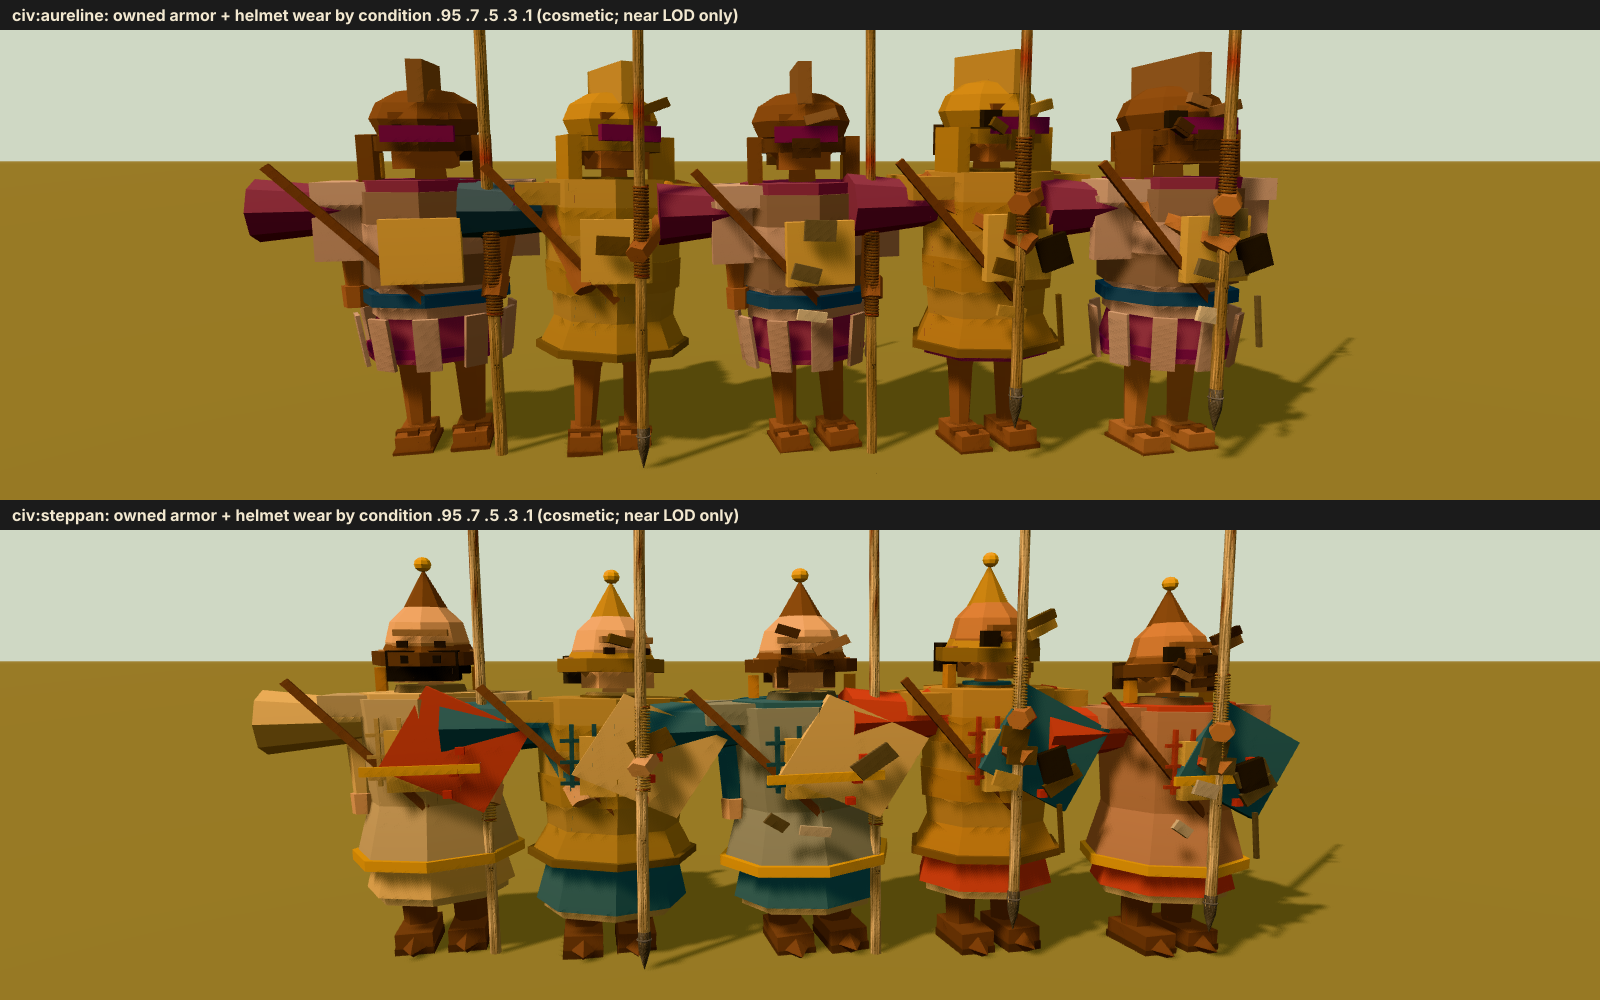
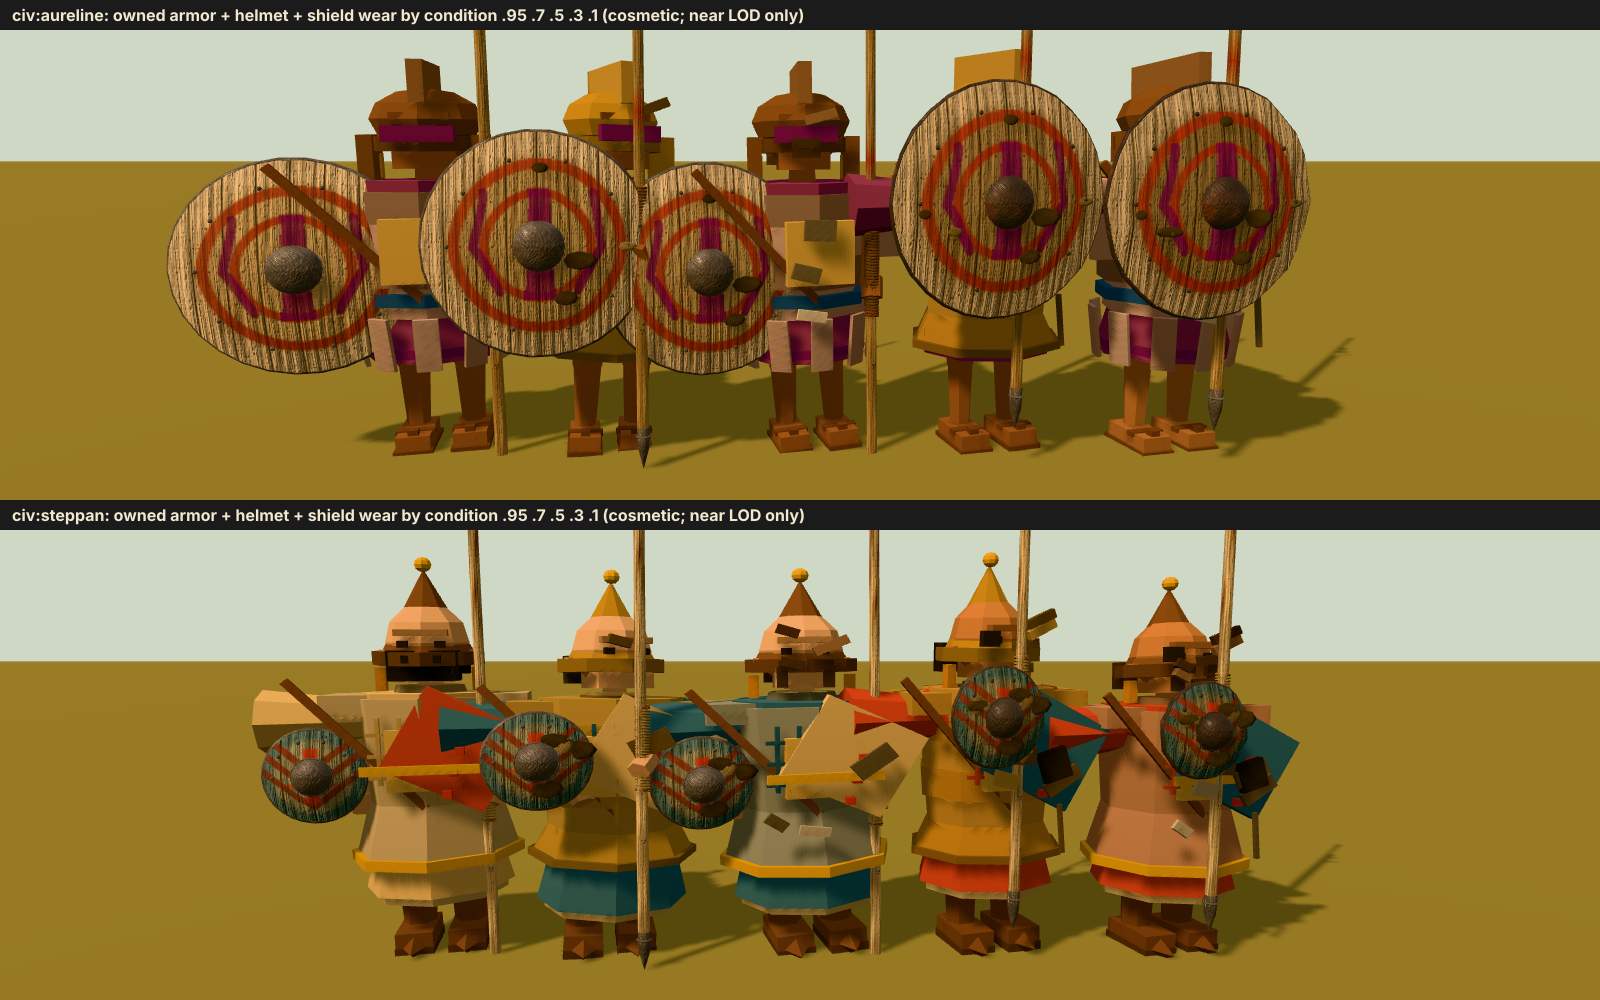
Lane C: shield wear from real condition (scuffs, rubbed face, chipped gap; near/mid LOD, bounded, own cache key)
Claude-Session: https://claude.ai/code/session_01Y7uzF3C4euQAGtzfSWWNBZ

diff --git a/src/scene/characterRig.ts b/src/scene/characterRig.ts
@@ -116,7 +116,7 @@ export function rigMeshData(parts:readonly RigPart[],pivot:readonly number[],col
 export type RigInput={type:UnitKind;bodyClass:BodyClass;seed:number;gear:RigGear;culture:Culture;season:Season;era?:number;/** people v2: the society's PeopleLook, this person's Individual and role. Absent = the first rig's culture-colour look (kept as ?people=rig1). */look?:PeopleLook;individual?:Individual;role?:Role;unitId?:number;/** TEAM_STYLE[team].unit: the readable team marker on bare bodies */teamColor:string;/** armorAffiliationColor(g,team) for the armor stitching */affiliation?:string};
 export type RigOutfit={key:string;bones:Record<RigBone,RigPart[]>;colors:Record<RigSlot,string>;itemR?:ItemId;itemL?:ItemId;bodyClass:BodyClass;
  /** people v2 only */look?:PeopleLook;role?:Role;ind?:Individual;frame?:{height:number;build:number;dirt:number};
- rendered:{garment?:GarmentId;cut?:Dress['cut'];headwear?:Dress['headwear'];insignia?:UnitKind;armor?:'paddedTorso';helmet?:string;shield?:string;weapon?:'spear'|'bow'|'blade';standard?:boolean};ignored:string[];fit:BodyClass};
+ rendered:{garment?:GarmentId;cut?:Dress['cut'];headwear?:Dress['headwear'];insignia?:UnitKind;armor?:'paddedTorso';helmet?:string;shield?:string;shieldCondition?:number;weapon?:'spear'|'bow'|'blade';standard?:boolean};ignored:string[];fit:BodyClass};
 const SKINS=['#d8a577','#c48a5c','#a8704a','#8a5a3c'];
 const rel=(p:Part)=>p;
 const R=(slot:RigSlot,shape:Part['shape'],size:[number,number,number],pos:[number,number,number],lod:LodTier,rot?:[number,number,number],sides?:number,onlyFrom?:LodTier):RigPart=>({...part(shape,'cloth',size,pos,lod,rot,sides),slot,...(onlyFrom!==undefined?{onlyFrom}:{})});
@@ -189,7 +189,7 @@ const L=(slot:RigSlot,a:[number,number,number],b:[number,number,number],t:number
  const dx=b[0]-a[0],dy=b[1]-a[1],dz=b[2]-a[2],len=Math.hypot(dx,dy,dz),pitch=Math.atan2(Math.hypot(dx,dz),dy),yaw=Math.atan2(dx,dz);
  return {...part('box','cloth',[t,len,t],a,lod,[pitch,yaw,0]),slot};
 };
-export function itemParts(item:ItemId,culture?:Culture,look?:PeopleLook,opts?:{shield?:ShieldKind}):RigPart[]{
+export function itemParts(item:ItemId,culture?:Culture,look?:PeopleLook,opts?:{shield?:ShieldKind;shieldCondition?:number}):RigPart[]{
  switch(item){
   case 'hammer':return hammerParts('#7a756d');
   case 'staff':return staffParts(look??({id:'x'} as PeopleLook),{accent:culture?.palette.accent??'#c9a23c',trim:culture?.palette.trim??'#c9a23c',metal:'#b08a3a'});
@@ -201,7 +201,7 @@ export function itemParts(item:ItemId,culture?:Culture,look?:PeopleLook,opts?:{s
   case 'hoe':return [R('wood','cylinder',[.04,.95,.035],[0,-.25,0],2,undefined,5),R('wood','box',[.04,.2,.14],[0,.62,.05],2,[-.5,0,0])];
   case 'rod':return [L('wood',[0,-.25,0],[0,1.1,.28],.03,2),L('trim',[0,1.1,.28],[0,.55,.62],.012,0)];
   case 'bow':return [L('wood',[0,-.55,-.02],[0,-.27,.09],.04,1),L('wood',[0,-.27,.09],[0,0,.11],.04,1),L('wood',[0,0,.11],[0,.27,.09],.04,1),L('wood',[0,.27,.09],[0,.55,-.02],.04,1),L('trim',[0,-.55,-.02],[0,.55,-.02],.012,0),R('wood','box',[.045,.14,.045],[0,-.07,.09],2)];
-  case 'shield':{if(look&&culture)return shieldParts(look.shield,{fields:culture.flag.fields,chargeColor:culture.flag.chargeColor,division:culture.flag.division},opts?.shield??'woodShield');const f=(culture?.flag.fields[0]??'#c0a060') as string;void f;return [R('flag','cylinder',[.5,.05,.5],[-.12,.1,.1],2,[Math.PI/2,0,0],9),R('metal','sphere',[.12,.12,.08],[-.12,.0,.14],1,[Math.PI/2,0,0]),R('trim','cylinder',[.52,.02,.52],[-.12,.1,.095],1,[Math.PI/2,0,0],9)];}
+  case 'shield':{if(look&&culture)return shieldParts(look.shield,{fields:culture.flag.fields,chargeColor:culture.flag.chargeColor,division:culture.flag.division},opts?.shield??'woodShield',undefined,opts?.shieldCondition);const f=(culture?.flag.fields[0]??'#c0a060') as string;void f;return [R('flag','cylinder',[.5,.05,.5],[-.12,.1,.1],2,[Math.PI/2,0,0],9),R('metal','sphere',[.12,.12,.08],[-.12,.0,.14],1,[Math.PI/2,0,0]),R('trim','cylinder',[.52,.02,.52],[-.12,.1,.095],1,[Math.PI/2,0,0],9)];}
   case 'standard':return [R('wood','cylinder',[.04,2.5,.04],[0,-.7,0],2,undefined,5),R('metal','sphere',[.1,.1,.1],[0,1.8,0],2),R('flag','box',[.62,.5,.03],[.31,1.26,0],2),R('flag2','box',[.62,.1,.034],[.31,1.62,0],2),R('flag2','box',[.62,.07,.034],[.31,1.3,0],2),R('charge','box',[.18,.18,.036],[.31,1.38,0],2,[0,0,Math.PI/4]),R('flag','box',[.2,.3,.03],[.72,1.34,0],1),R('flag2','box',[.2,.3,.03],[.92,1.38,0],0)];
  }
 }
@@ -212,7 +212,7 @@ export const TOOL_FOR_CLIP:Partial<Record<string,ItemId>>={chop:'axe',quarry:'pi
 /** One merged static silhouette for far tier: every bone at rest, plus item parts in their stance. */
 export function farParts(o:RigOutfit,culture?:Culture):RigPart[]{
  const out:RigPart[]=[];for(const b of RIG_BONES)out.push(...o.bones[b]);
- const place=(item:ItemId|undefined,at:readonly number[],tilt=0)=>{if(!item)return;for(const p of itemParts(item,culture,o.look,{shield:o.rendered.shield as ShieldKind|undefined}))out.push({...p,pos:[p.pos[0]+at[0],p.pos[1]*Math.cos(tilt)+at[1],p.pos[2]+at[2]+p.pos[1]*Math.sin(tilt)]});};
+ const place=(item:ItemId|undefined,at:readonly number[],tilt=0)=>{if(!item)return;for(const p of itemParts(item,culture,o.look,{shield:o.rendered.shield as ShieldKind|undefined,shieldCondition:o.rendered.shieldCondition}))out.push({...p,pos:[p.pos[0]+at[0],p.pos[1]*Math.cos(tilt)+at[1],p.pos[2]+at[2]+p.pos[1]*Math.sin(tilt)]});};
  place(o.itemR,[.21,.6,.1],0);place(o.itemL,[-.22,.64,.08],0);return out;
 }
 /** `near/mid/far` are the ceiling over every kit (leader, helmet, shield, armor, richest trim); `typical` is what an ordinary garment-and-weapon person must fit. */
@@ -221,7 +221,7 @@ const tri=(parts:readonly RigPart[],tier:LodTier)=>parts.filter(p=>p.lod>=tier&&
 /** Triangles one person costs at a tier, items included (far uses the merged silhouette). */
 export function rigTriangles(o:RigOutfit,tier:LodTier,culture?:Culture):number{
  if(tier===2)return tri(farParts(o,culture),2);
- return RIG_BONES.reduce((n,b)=>n+tri(o.bones[b],tier),0)+[o.itemR,o.itemL].reduce((n,i)=>n+(i?tri(itemParts(i,culture,o.look,{shield:o.rendered.shield as ShieldKind|undefined}),tier):0),0);
+ return RIG_BONES.reduce((n,b)=>n+tri(o.bones[b],tier),0)+[o.itemR,o.itemL].reduce((n,i)=>n+(i?tri(itemParts(i,culture,o.look,{shield:o.rendered.shield as ShieldKind|undefined,shieldCondition:o.rendered.shieldCondition}),tier):0),0);
 }
 export const rigVertices=(o:RigOutfit,tier:LodTier,culture?:Culture)=>rigTriangles(o,tier,culture)*3;
 /** Gear-only triangles (no body, no items): what the old appearance budget measured. */

diff --git a/src/scene/peopleGear.ts b/src/scene/peopleGear.ts
@@ -79,7 +79,7 @@ export function helmetParts(c:KitCtx,kind:HelmKind,style:HelmStyle,leader:boolea
 export type ShieldKind='woodShield'|'hideShield'|'bronzeShield';
 const SHIELD_BASE:Record<ShieldKind,string>={woodShield:'#8a6a42',hideShield:'#b3946c',bronzeShield:'#b48e3e'};
 /** A shield face painted from the society's flag (division, colours, charge), so the motif matches banner and insignia. */
-export function shieldParts(shape:ShieldShape,flag:{fields:readonly string[];chargeColor:string;division:string},kind:ShieldKind,metal='#8a8478'):RigPart[]{
+export function shieldParts(shape:ShieldShape,flag:{fields:readonly string[];chargeColor:string;division:string},kind:ShieldKind,metal='#8a8478',cond?:number):RigPart[]{
  const f0=flag.fields[0]??SHIELD_BASE[kind],f1=flag.fields[1]??f0,ink=flag.chargeColor,rim=kind==='bronzeShield'?'#b48e3e':'#5a4a38',cx=-.12,cy=.1,z0=.09;
  const R=(col:string,s:Parameters<typeof Q>[1],size:[number,number,number],pos:[number,number,number],lod:0|1|2,rot?:[number,number,number],sides?:number)=>Q(col,s,size,pos,lod,rot,sides);
  const o:RigPart[]=[];const H=Math.PI/2,div=flag.division,vert=/vertical|triband-v/.test(div),hor=/horizontal|triband-h/.test(div),diag=/diagonal|saltire|quarters|canton|pall|checker/.test(div);
@@ -96,6 +96,10 @@ export function shieldParts(shape:ShieldShape,flag:{fields:readonly string[];cha
   case 'tower':o.push(R(f0,'box',[.4,.8,.05],[cx,cy-.25,z0],2),R(f0,'cylinder',[.4,.05,.4],[cx,cy+.55,z0],1,[H,0,0],8),R(rim,'box',[.42,.035,.056],[cx,cy-.25,z0],1),R(rim,'box',[.42,.035,.056],[cx,cy+.53,z0],1),R(metal,'sphere',[.1,.1,.06],[cx,cy+.1,z0+.06],1));motif(.3,.7,cy-.2);break;
   case 'wicker':o.push(R(mix(f0,'#b89a62',.5),'cylinder',[.5,.05,.5],[cx,cy,z0],2,[H,0,0],9),...[.42,.32,.2].map((d,i)=>R(i%2?'#8a6a42':'#c8aa70','cylinder',[d,.012,d],[cx,cy,z0+.032],0,[H,0,0],9)),R(metal,'sphere',[.12,.12,.07],[cx,cy-.02,z0+.06],1,[H,0,0]),R(rim,'cylinder',[.52,.022,.52],[cx,cy,z0],1,[H,0,0],9));break;
  }
+ if(cond!==undefined&&Number.isFinite(cond)&&cond<.75){const wear=Math.min(1,(.75-Math.max(0,cond))/.75),n=Math.min(6,1+Math.floor(wear*6)),dk=shade(f0,.55),lt=shade(f0,1.22);
+  // cosmetic only: scuffs and a rubbed rim, then a chipped gap and a split plank when badly worn (near LOD, bounded)
+  for(let i=0;i<n;i++){const h=hashSeed(`shield-wear-${kind}-${shape}-${i}`),u=(h%97)/97,v=((h>>>7)%89)/89;o.push(R(i%3===2?lt:dk,'box',[.05+u*.07,.03+v*.04,.012],[cx+(u-.5)*.3,cy+(v-.5)*.3,z0+.036],0,[0,0,(u-.5)*1.4]));}
+  if(wear>.55)o.push(R('#1c1712','box',[.1,.09,.02],[cx+.12,cy+.14,z0+.04],0,[0,0,.4]),R(dk,'box',[.012,.3,.012],[cx-.06,cy,z0+.04],0,[0,0,.12]));}
  return o;
 }
 export function hammerParts(metal:string):RigPart[]{return [Q('#8a5a2c','cylinder',[.04,.5,.035],[0,-.15,0],2,undefined,5),Q(metal,'box',[.07,.1,.16],[0,.35,0],2),Q(shade(metal,.8),'box',[.05,.06,.05],[0,.35,-.1],1)];}
@@ -176,12 +180,12 @@ export function peopleOutfit(input:PeopleInput):RigOutfit{
  }
  // sockets
  const itemR=type==='leader'?'standard':type==='spearman'?'spear':type==='swordsman'?'blade':type==='warden'?'axe':role==='priest'?'staff':undefined,itemL=type==='archer'||type==='ranger'?'bow':gear.shield&&gear.shield.condition>0?'shield':undefined;
- if(itemR)rendered.weapon=itemR==='spear'?'spear':itemR==='blade'?'blade':undefined;if(itemL==='bow')rendered.weapon='bow';if(itemR==='standard')rendered.standard=true;if(itemL==='shield')rendered.shield=gear.shield!.kind;
+ if(itemR)rendered.weapon=itemR==='spear'?'spear':itemR==='blade'?'blade':undefined;if(itemL==='bow')rendered.weapon='bow';if(itemR==='standard')rendered.standard=true;if(itemL==='shield'){rendered.shield=gear.shield!.kind;if(gear.shield!.condition<.75)rendered.shieldCondition=gear.shield!.condition;}
  const colors={} as Record<RigSlot,string>;
  const garmentColor=pal.cloth,trimColor=pal.trim;
  Object.assign(colors,{garment:garmentColor,trim:trimColor,leather:pal.leather,padding:PADDED_BASE[look.armor.padded],stitch:input.affiliation??'#c2b080',wood:'#8a5a2c',metal:pal.metal,hair:pal.hair,skin:pal.skin,body:garmentColor,cloak:mix(flag.fields[0] as string,'#000000',.12),flag:flag.fields[0] as string,flag2:flag.fields[1] as string,charge:flag.chargeColor,team:input.teamColor,boot:shade(pal.leather,.6)});
  for(const k of SLOT_KINDS)if(!colors[k])colors[k]='#808080';
- const key=['rig2',look.id,bodyClass,type,role,rendered.garment??'-',item??'-',cut.torso,cut.mantle,hk,rendered.armor?look.armor.padded+(gear.armor?.kind??''):'-',rendered.helmet??'-',rendered.shield??'-',ind.skinTone,ind.hairColour,ind.hair,ind.beard,ind.jewel.join('+'),ind.mark?ind.mark.pattern+ind.mark.sites.join(''):'-',ind.patches,ind.variant,ind.hand,season,rich,culture.key,input.teamColor,input.affiliation??'-',g?Math.round((g.condition)*4):'-',wearTier(gear.armor?.condition),wearTier(gear.helmet?.condition)].join('|');
+ const key=['rig2',look.id,bodyClass,type,role,rendered.garment??'-',item??'-',cut.torso,cut.mantle,hk,rendered.armor?look.armor.padded+(gear.armor?.kind??''):'-',rendered.helmet??'-',rendered.shield??'-',ind.skinTone,ind.hairColour,ind.hair,ind.beard,ind.jewel.join('+'),ind.mark?ind.mark.pattern+ind.mark.sites.join(''):'-',ind.patches,ind.variant,ind.hand,season,rich,culture.key,input.teamColor,input.affiliation??'-',g?Math.round((g.condition)*4):'-',wearTier(gear.armor?.condition),wearTier(gear.helmet?.condition),itemL==='shield'?wearTier(gear.shield?.condition):'-'].join('|');
  void CLS_HEIGHT;void hashSeed;void lookForSkin;void individualFor;
  return {key,bones,colors,itemR,itemL,bodyClass,rendered,ignored,fit:bodyClass,look,role,ind,frame:{height:look.body.height*ind.height,build:ind.build,dirt:ind.dirt}} as RigOutfit;
 }

diff --git a/src/scene/characterRigLayer.ts b/src/scene/characterRigLayer.ts
@@ -140,8 +140,8 @@ export class CharacterRigLayer{
    mul(_w,_u,this.matrices[b]);this.push(v,_w,col);
   }
   for(const [sock,item] of [['itemR',itemR],['itemL',itemL]] as const){
-   if(!item)continue;const id=w.identity(u.team),held=w.heldOf?.(u,item)??null,hEra=held?.era??itemEraForAge(w.era),hBucket=conditionBucket(held?.condition);
-   const v=this.variant(`t${tier}|${item}|c${hBucket}|${heldKey(item,outfit.look?.id,hEra,outfit.rendered.shield)}|${item==='standard'||item==='shield'?hash(outfit.colors.flag+outfit.colors.flag2+outfit.colors.charge+(outfit.look?.shield??'')+(outfit.rendered.shield??'')+id.culture.flag.division):item==='staff'?hash((outfit.look?.id??'')+outfit.colors.trim):''}`,()=>heldItemGeometry(item,outfit,hEra,tier,CONDITION_BUCKET_MID[hBucket])??toGeometry(itemParts(item,id.culture,outfit.look,{shield:outfit.rendered.shield as never}),[0,0,0],outfit.colors,tier));
+   if(!item)continue;const id=w.identity(u.team),held=w.heldOf?.(u,item)??null,hEra=held?.era??itemEraForAge(w.era),hBucket=conditionBucket(held?.condition??(item==='shield'?outfit.rendered.shieldCondition:undefined));
+   const v=this.variant(`t${tier}|${item}|c${hBucket}|${heldKey(item,outfit.look?.id,hEra,outfit.rendered.shield)}|${item==='standard'||item==='shield'?hash(outfit.colors.flag+outfit.colors.flag2+outfit.colors.charge+(outfit.look?.shield??'')+(outfit.rendered.shield??'')+id.culture.flag.division):item==='staff'?hash((outfit.look?.id??'')+outfit.colors.trim):''}`,()=>heldItemGeometry(item,outfit,hEra,tier,CONDITION_BUCKET_MID[hBucket])??toGeometry(itemParts(item,id.culture,outfit.look,{shield:outfit.rendered.shield as never,shieldCondition:outfit.rendered.shieldCondition}),[0,0,0],outfit.colors,tier));
    if(!v)continue;mul(_wn,_u,this.matrices[sock]);this.push(v,_wn,col);
   }
   if(!override)this.stats.people++;return true;

diff --git a/src/scene/itemMelee.ts b/src/scene/itemMelee.ts
@@ -291,6 +291,10 @@ const field=hexRgb(c.st.field),acc=hexRgb(c.st.accent),ink=hexRgb(c.st.cordColou
  if(!isWicker||c.lod<2){const path=outline.map(([x,y],j)=>[x,y,zFn(1,j)] as V3);path.push(path[0]);
   b.tube(path,()=>era>=2?.0085:.011,b.pick(6,5,3),rimP,{caps:false});}
  if(isWicker&&c.lod===0)for(const f of [.55,.8])b.ring([0,0,D.bulge*(1-f*f)+.002],[0,0,1],D.rx*f,.004,c.paint('wicker',{len:.5,tint:'#7a5a34',tintAmount:.4}),20,4);
+ // worn face: scuffs and a rubbed patch from real condition (cosmetic only, bounded, near/mid LOD)
+ if(c.wear>.28&&c.lod<2){const nS=Math.min(7,2+Math.floor(c.wear*7)),scuff=c.paint('rawhide',{len:.1,tint:'#1c1712',tintAmount:.8}),rub=c.paint('rawhide',{len:.1,tint:'#d8c9a4',tintAmount:.7});
+  for(let i=0;i<nS;i++){const a2=c.r('sc'+i)*TAU,rr=(.25+c.r('sr'+i)*.6),sx=Math.cos(a2)*D.rx*rr,sy=Math.sin(a2)*D.ry*rr,nx=sx/D.rx,ny=sy/D.ry;
+   b.ellipsoid([sx,sy,D.bulge*(1-Math.min(1,nx*nx+ny*ny))+.012],[.02+c.r('sw'+i)*.04,.012+c.r('sh'+i)*.02,.006],i%3===2?rub:scuff,4);}}
  // boss
  const boss=era===0?(isWicker?c.paint('wicker',{len:.1}):c.paint('horn',{len:.1})):era===1?c.paint('copper',{len:.1,wear:c.wear}):mp(c,.2);
  const br=shape==='buckler'?.06:.075;

diff --git a/docs/parallel/AUTOPILOT.md b/docs/parallel/AUTOPILOT.md
@@ -576,7 +576,7 @@ Every source item is assigned to exactly one owner. The named owner builds the f
 | LANE-C-15 | visuals | Village grammar for the remaining types: palisade, stone wall, gate (open/closed), trench, moat, canal, aqueduct, dock, bridge, quarry, cairn, grove, cornerstone, outpost, field/pen/farm set, granary/warehouse in the carved path; tiled cells take neighbour join masks (end caps, corners, tees); SkinSpec forms (wall style, gate shape, hall roof, coping) per civ, approved ten unchanged; live harness house/university staging fixed | Claude | Claude lane C | live-partial | villageHall/Join/Earthworks/Land/Defence.ts, carvedLines.ts, world.ts routing; scoped 73/73; farm, pen, lumber, trench, moat, bridge stay on current path in the live game (generators exist, sheets only); docs/renders/buildings2/ |
 | LANE-C-16 | visuals | Conifer drooping skirt whorl (wide shallow lower bough, near+mid LOD only; far/impostor unchanged) so spruce/pine read layered | Claude | Claude lane C | source-pushed-not-live | carvedTrees.ts; carved-trees/biome-vegetation/tree-detail 15/15, tsc 0 errors; lod SwiftShader sheet checked. Next: wetland/arid dressing, Option H adapter, night hearth shot |
 | LANE-C-17 | visuals | Biome dressing forms: wetland cattail stands, arid agave rosettes, dry bunch grass, alpine cushion plants (painterly dressing only; classic scatter and legacy tree set unchanged); weighted into wetland/dry-scrub/arid/alpine tables | Claude | Claude lane C | source-pushed-not-live | painterTrees.ts/biomeVegetation.ts/biomeSceneLayer.ts (c455e7b); veg/scene/carved/painter/tree-detail 25/25, tsc 0; SwiftShader forms sheet checked; no placement/collision change |
-| LANE-C-18 | visuals | Cosmetic wear on owned armor and helmets from real condition (scuffs and rubbed edges below .75, torn gap and hanging cord when badly worn); near LOD only, bounded parts, wear tier in the outfit cache key, no stat change; people2 'wear' sheet | Claude | Claude lane C | source-pushed-not-live | peopleGear.ts wornGearParts; people-look 27/27 incl. new wear test, tsc 0 errors; docs/renders/people2/wear.png SwiftShader checked. Banner/shield wear still open (AUDIT-VIS-WORN-GEAR-WEAR partial) |
+| LANE-C-18 | visuals | Cosmetic wear on owned armor and helmets from real condition (scuffs and rubbed edges below .75, torn gap and hanging cord when badly worn); near LOD only, bounded parts, wear tier in the outfit cache key, no stat change; people2 'wear' sheet | Claude | Claude lane C | source-pushed-not-live | peopleGear.ts wornGearParts; people-look 27/27 incl. new wear test, tsc 0 errors; docs/renders/people2/wear.png SwiftShader checked. Shield wear added (rig fallback parts + held shield model scuffs from gear.shield.condition, own cache key; banner wear still open) (AUDIT-VIS-WORN-GEAR-WEAR partial) |
 | WILD-1 | audit | Hunting, butchery, hide, keeping, clothing and feed audit with have/part/new/open table (docs/WILD_CRAFT_AUDIT.md) | Claude | Claude wild-craft | source-pushed-not-live | audit written; CAT-35/36 leftovers map to WILD-2..5 |
 | WILD-2 | gate | Hunt method by held tool and animal; snares and pitfalls on real wildlife; bleeding wounds, blood trail, tracker; field-dress fat/sinew/brain/horn per species (finite, six per trip) | Claude | Claude wild-craft | source-pushed-not-live | wildCraft.ts behind enableWildCraft; wild-craft.test.mjs; no HUD toggle or drives/dogs yet |
 | WILD-3 | gate | Hide chain soak, brain/bark/smoke tan, frame dry in weather, soften to leather; tallow, sinew cordage; dry berries, jam; per-good weather spoilage | Claude | Claude wild-craft | source-pushed-not-live | same module; one hide in, one leather out; goods ledger is per team, not yet on the trade surface |
